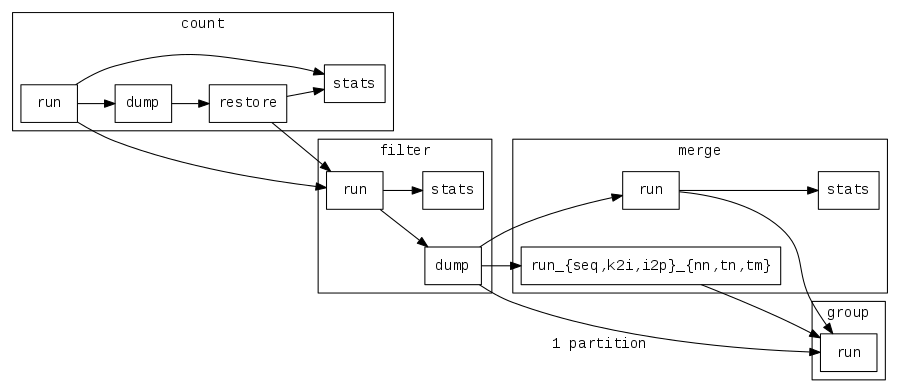
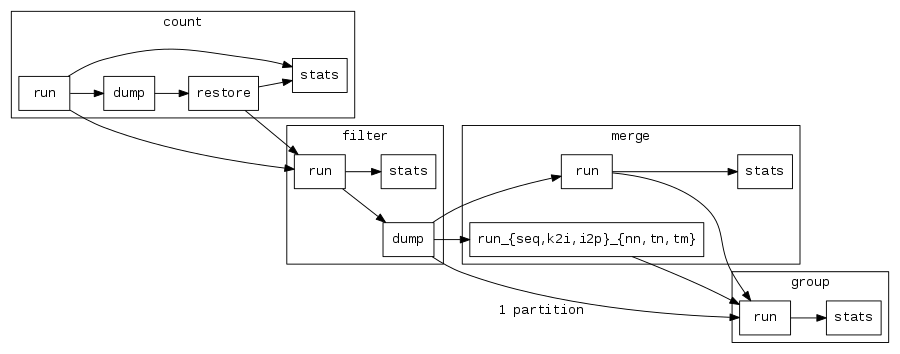
Add new groups' stats to documentation

Changed region(s): [[0.0, 0.0311, 0.9956, 0.9944], [0.1556, 0.0311, 0.2489, 0.0932], [0.3733, 0.0311, 0.4044, 0.0621]]

diff --git a/README.md b/README.md
@@ -82,6 +82,7 @@ use the following:
  * `group`
    * `run`: window-based group leader selection and retrieval of related
      reads.
+   * `stats`: display number of groups generated by each thead.
 
 Commands need to follow a certain order, and some stages can't be executed
 without running earlier stages first. The following graph shows the
